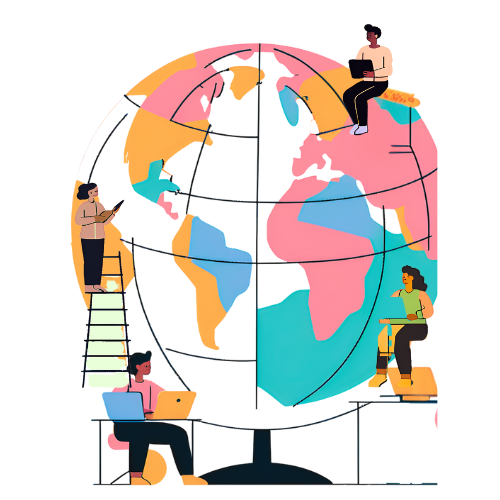
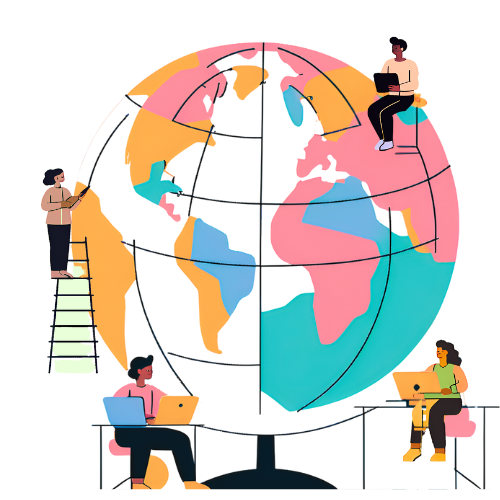
add about us image

Changed region(s): [[0.06, 0.03, 1.0, 0.99], [0.63, 0.45, 0.72, 0.48], [0.42, 0.45, 0.45, 0.48]]

diff --git a/src/Pages/AboutUs.jsx b/src/Pages/AboutUs.jsx
@@ -1,6 +1,6 @@
 import React from "react";
 import "./css/aboutUs.css";
-import aboutImage from "../Images/About US-transparent.png"; // Update the path based on your project
+import aboutImage from "../Images/aboutUs.png"; // Update the path based on your project
 
 const AboutUs = () => {
   return (
